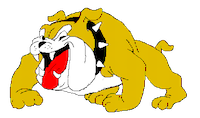
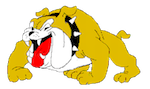
Resized pics and objects velocities

diff --git a/Examen1/src/AppletExamen1.java b/Examen1/src/AppletExamen1.java
@@ -192,12 +192,12 @@ public class AppletExamen1 extends Applet implements Runnable, KeyListener, Mous
             switch (direccion) {
                 case 3: {
 
-                    gatoBueno.setPosX(gatoBueno.getPosX() - 1);
+                    gatoBueno.setPosX(gatoBueno.getPosX() - 5);
                     break; //se mueve hacia la izquierda
                 }
                 case 4: {
 
-                    gatoBueno.setPosX(gatoBueno.getPosX() + 1);
+                    gatoBueno.setPosX(gatoBueno.getPosX() + 5);
                     break; //se mueve hacia la derecha
                 }
             }
@@ -210,11 +210,11 @@ public class AppletExamen1 extends Applet implements Runnable, KeyListener, Mous
         }
 
         for (int i = 0; i < lista.size(); i++) {
-            Malo perroMalo = (Malo) lista.get(i);                         // se hace el cast para cada perroMalo
+            Malo perroMalo = (Malo) lista.get(i);  // 
             if (perroMalo.getPosY() < getHeight()) {
-                //si la Y de los perroMalos son menores a la altura del applet
+               
                 //perroMalo.setPosY(perroMalo.getPosY() + (int) (Math.random() * 5 + 1));
-                perroMalo.setPosY(perroMalo.getPosY() + perroMalo.getSpeed());       //iran bajando 
+                perroMalo.setPosY(perroMalo.getPosY() + perroMalo.getSpeed());       
             }
 
         }

diff --git a/Examen1/src/Malo.java b/Examen1/src/Malo.java
@@ -22,7 +22,9 @@ public class Malo extends Base {
         animacion.sumaCuadro(malo3, 100);
         animacion.sumaCuadro(malo4, 100);
       
-        SPEED = (int) ((Math.random() * (9))+ 1);
+        SPEED = (int) ((Math.random() * (4))+ 1);
+        
+        //CONTEO
     }
     
 
